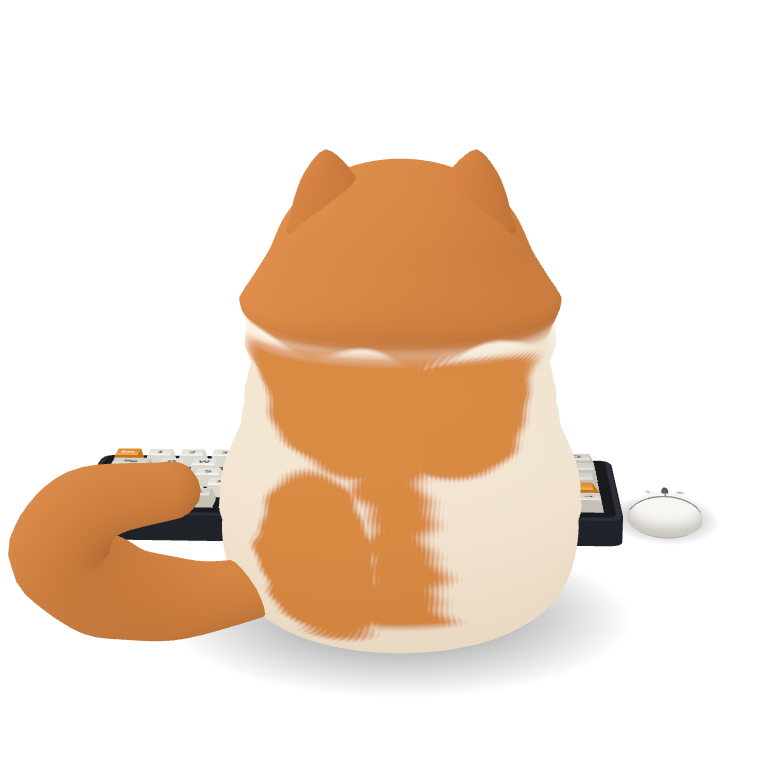
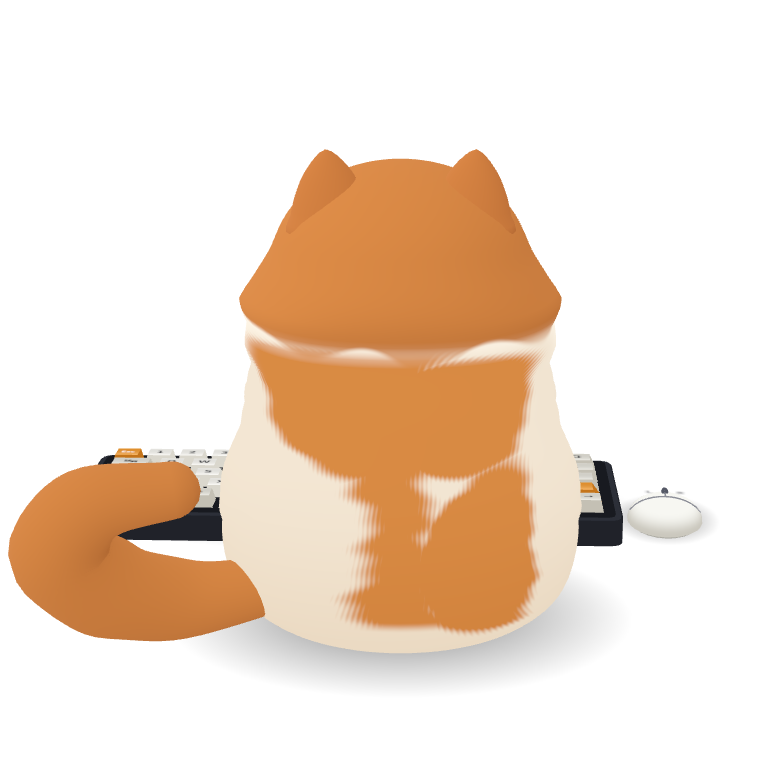
fix: wrap Facai markings diagonally into front view

Changed region(s): [[0.5231, 0.5846, 0.7077, 0.8308], [0.3077, 0.5846, 0.4923, 0.8308]]

diff --git a/src/longhair3d.ts b/src/longhair3d.ts
@@ -334,12 +334,13 @@ function sculptMaterial(part: 'COAT' | 'EAR' | 'LIMB' | 'SOLID'): THREE.ShaderMa
           vec2 shoulder = vec2(p.x - 0.27 + 0.035 * sin(7.0 * p.y), (p.y - 0.50) * 0.92);
           float shoulderPatch = 1.0 - smoothstep(-0.10, 0.08,
             length(shoulder / vec2(0.52, 0.32)) - 1.0 + raggedEdge);
+          float frontShoulderPatch = shoulderPatch;
           vec2 shoulderOpposite = vec2(p.x + 0.30 + 0.030 * sin(8.0 * p.y), (p.y - 0.48) * 0.92);
           float shoulderOppositePatch = 1.0 - smoothstep(-0.10, 0.08,
             length(shoulderOpposite / vec2(0.46, 0.30)) - 1.0 + raggedEdge);
           shoulderPatch = max(shoulderPatch, shoulderOppositePatch);
-          vec2 rear = vec2(p.x - 0.44 + 0.04 * sin(6.0 * p.y),
-                           p.y + 0.30 - 0.45 * (p.x - 0.44));
+          vec2 rear = vec2(p.x + 0.44 + 0.04 * sin(6.0 * p.y),
+                           p.y + 0.30 + 0.45 * (p.x + 0.44));
           float rearPatch = 1.0 - smoothstep(-0.10, 0.08,
             length(rear / vec2(0.36, 0.48)) - 1.0 + raggedEdge);
           float spine = 0.025 + 0.026 * sin(4.7 * p.y + 0.3) + 0.012 * sin(11.0 * p.y);
@@ -364,9 +365,12 @@ function sculptMaterial(part: 'COAT' | 'EAR' | 'LIMB' | 'SOLID'): THREE.ShaderMa
           float folds = max(furLock(lock, vec2(0.105, 0.54), vec2(0.252, -0.13), -0.073, 0.062),
                             furLock(lock, vec2(0.287, 0.61), vec2(0.480, 0.05), -0.043, 0.053));
           color *= 1.0 - 0.080 * folds * smoothstep(0.46, 0.87, p.z);
-          float frontShoulder = shoulderPatch * smoothstep(0.06, 0.34, p.z)
+          float frontShoulder = frontShoulderPatch * smoothstep(0.06, 0.34, p.z)
                               * smoothstep(0.55, 0.75, abs(p.x));
           color = mix(color, uFlank, frontShoulder * 0.60 * (1.0 - vHeadMix));
+          float frontRear = rearPatch * smoothstep(0.06, 0.34, p.z)
+                          * smoothstep(0.54, 0.74, abs(p.x));
+          color = mix(color, uFlank, frontRear * 0.45 * (1.0 - vHeadMix));
           color = mix(color, faceColor, vHeadMix);
         #elif defined(EAR)
           vec3 p = vLocation;

diff --git a/docs/skins/orange-white-longhair/back-markings.md b/docs/skins/orange-white-longhair/back-markings.md
@@ -12,14 +12,14 @@
 
 | 部位 | 原素材与实拍的差异 | 本次修正 |
 | --- | --- | --- |
-| 肩颈、上背 | 鞍斑与侧斑连成大面积橘色，缺少与白色体侧的区分 | 两侧肩背橘区与中央长斑衔接，并向正面肩头外侧延伸少量橘色 |
+| 肩颈、上背 | 鞍斑与侧斑连成大面积橘色，缺少与白色体侧的区分 | 正背左上的肩背橘区绕到正右上，与中央长斑衔接 |
 | 背部中段 | 横向鞍斑过宽，缺少正背参考图的中央长斑 | 正背和俯视保留狭长、略弯曲的中央橘斑 |
-| 体侧、髋部、臀部 | 两侧和臀部有大面积橘色 | 侧后参考图中的后侧橘斑向尾根延伸，另一侧和臀部保持白色 |
+| 体侧、髋部、臀部 | 两侧和臀部有大面积橘色 | 正背右下的后侧橘斑绕到正左下，另一侧体侧和臀部保持白色 |
 | 斑块边缘 | 多个规则椭圆叠加，边界较平滑、色块感明显 | 多尺度起伏、顺毛流的细丝和柔化过渡 |
 
 ![正面特征、挥爪与入睡修改前后](back-markings-features.png)
 
-白鼻梁条、鼻旁橘斑、白毛领中央、白手套和全橘尾巴继续使用原有造型和配色，仅肩头外侧延伸少量橘色。正面截图的面部/鼻斑、白毛领、白手套和橘尾巴取样区域由比较脚本自动验证；运行检查另会断言正面左右肩头、尾根与尾巴主体均有橘色。
+白鼻梁条、鼻旁橘斑、白毛领中央、白手套和全橘尾巴继续使用原有造型和配色。背部花纹沿身体两侧对角延伸，使正面右上和左下各露出一块橘色。正面截图的面部/鼻斑、白毛领、白手套和橘尾巴取样区域由比较脚本自动验证；运行检查另会断言正右上、正左下、尾根与尾巴主体均有橘色。
 
 ## 验证与复现
 
@@ -38,8 +38,8 @@ npm run test:back-markings
 
 - 6 个固定视角、左右挥爪各 25 帧、左右挥爪正面各 1 帧、入睡过渡 30 帧和入睡侧面，共 89 张透明 PNG。
 - 每张检查 WebGL alpha、透明背景与可见的宠物像素，并捕获浏览器和 GLSL 错误。
-- 在实际背部网格上定位后读取 11 个 GPU 像素：肩部左/中/右、上背中点、脊柱中下段、右体侧和右髋应为橘色；左体侧、左髋和臀部应为白色。
-- 正面左右肩头取样区域各必须保留超过 10 个橘色像素；尾根必须有橘色像素，尾巴主体必须保留超过 1,000 个橘色像素。
+- 在实际背部网格上定位后读取 11 个 GPU 像素：肩部左/中/右、上背中点、脊柱中下段、左体侧和左髋应为橘色；右体侧、右髋和臀部应为白色。
+- 正面右上与左下取样区域各必须保留超过 10 个橘色像素；尾根必须有橘色像素，尾巴主体必须保留超过 1,000 个橘色像素。
 - 原有挥爪单元测试及浏览器交互检查覆盖概率、左右选爪、肉垫/爪尖、抓痕、隐私中断、选键和动作结束后的恢复。
 
 重新生成修改前截图时，Vite 只在内存中加载指定提交的原材质，不修改当前工作区：
